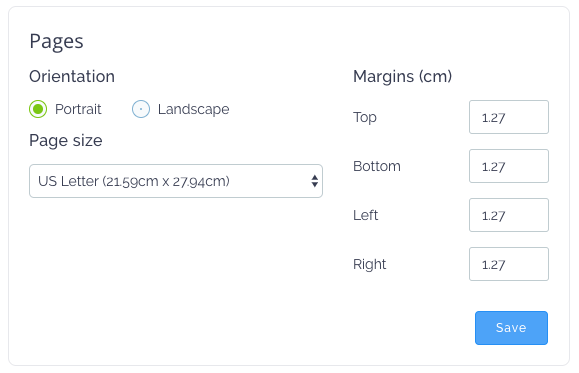
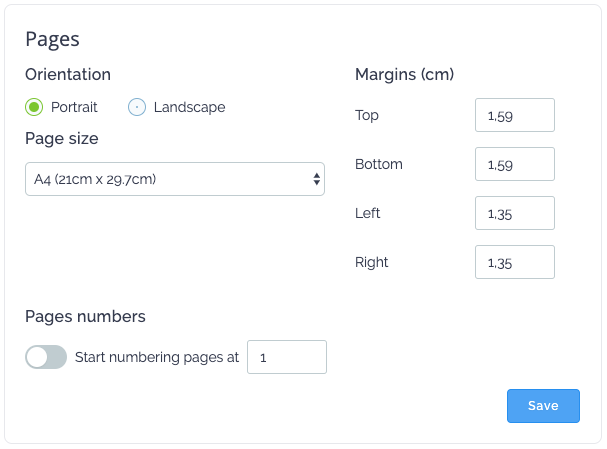
doc: pages numbers

diff --git a/docs/en/editor/notation.md b/docs/en/editor/notation.md
@@ -40,7 +40,7 @@ On this page, discover the music notations available on our music notation softw
 ## Layout and Styles
 
 |  | [Add or change the Title, Subtitle, License, Composer or Lyricist](/help/en/music-notation-software/credits.html) |
-| [![Page Layout](https://prod.flat-cdn.com/img/icons/scoreEditor/pageLayout.svg){:.tb}](/help/en/music-notation-software/layout-page.html) | [Page size, orientation and margins](/help/en/music-notation-software/layout-page.html) |
+| [![Page Layout](https://prod.flat-cdn.com/img/icons/scoreEditor/pageLayout.svg){:.tb}](/help/en/music-notation-software/layout-page.html) | [Page size, orientation, margins and pages numbers](/help/en/music-notation-software/layout-page.html) |
 | [![Staves](https://prod.flat-cdn.com/img/icons/scoreEditor/staves.svg){:.tb}](/help/en/music-notation-software/layout-staves.html) | [Staves size and spacing between parts and staves](/help/en/music-notation-software/layout-staves.html) |
 | [![Measures](https://prod.flat-cdn.com/img/icons/scoreEditor/measures.svg){:.tb}](/help/en/music-notation-software/layout-measures.html) | [Number of measures per system and notes spacing](/help/en/music-notation-software/layout-measures.html) |
 | [![Measures numbers](https://prod.flat-cdn.com/img/icons/scoreEditor/measuresNumbers.svg){:.tb}](/help/en/music-notation-software/layout-measures-numbers.html) | [Measures numbers](/help/en/music-notation-software/layout-measures-numbers.html) |

diff --git a/docs/en/editor/layout-page.md b/docs/en/editor/layout-page.md
@@ -26,3 +26,8 @@ If you are in the US, the default page size is US Letter and the sizes are in in
 
 ![Page Layout](/help/assets/img/editor/layout-page.png)
 
+### Pages Numbers
+
+By default, Flat will add pages numbers if your scores contain at least two pages. You can force displaying the pages numbers on all the pages and choose the first number to use in the page settings:
+
+![Pages Numbers](/help/assets/img/editor/layout-pages-numbers.png)
